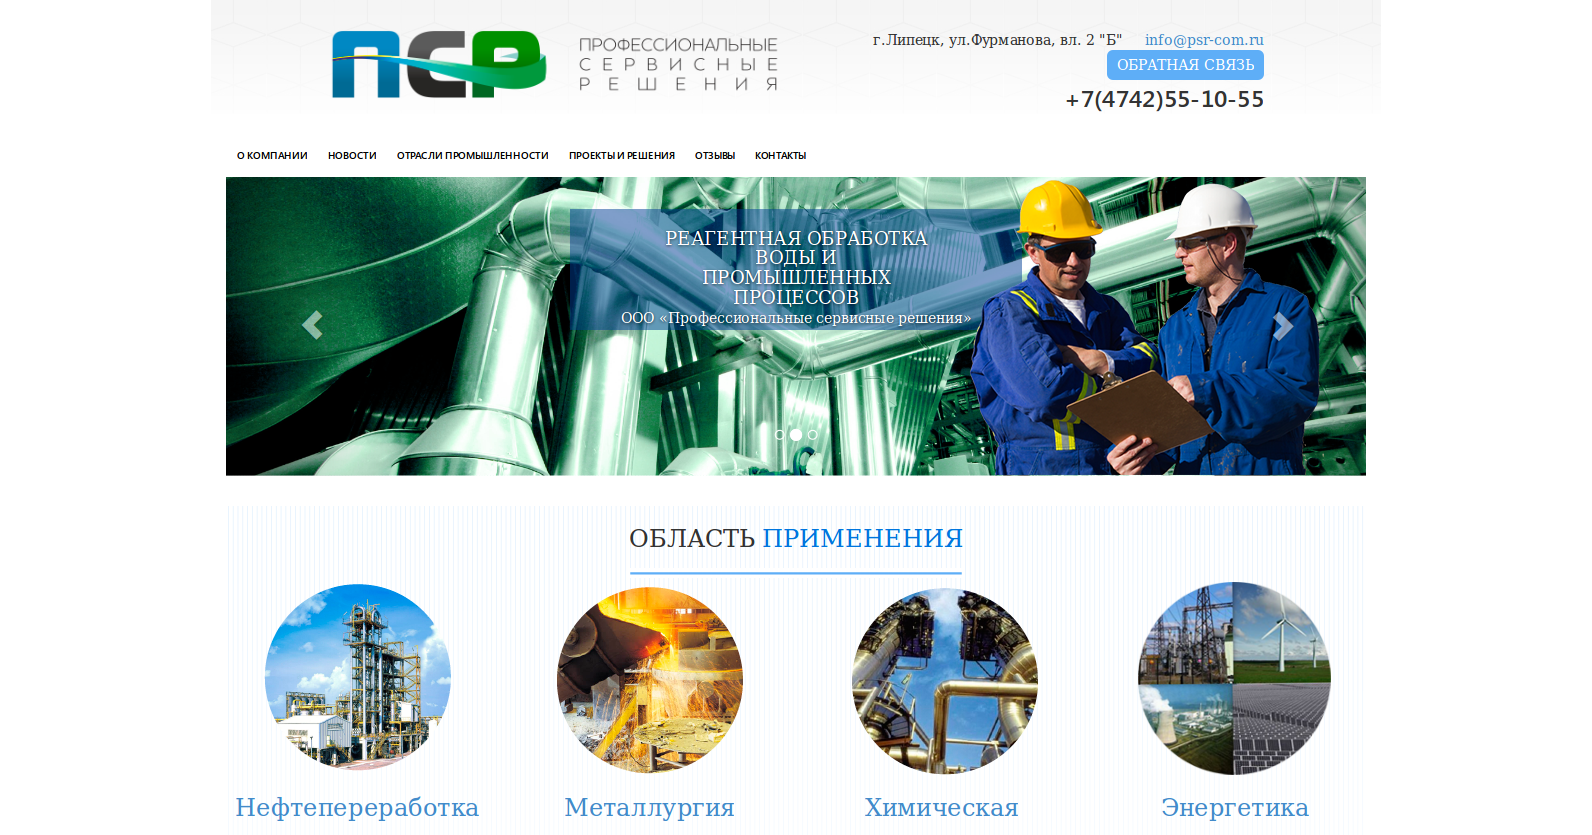
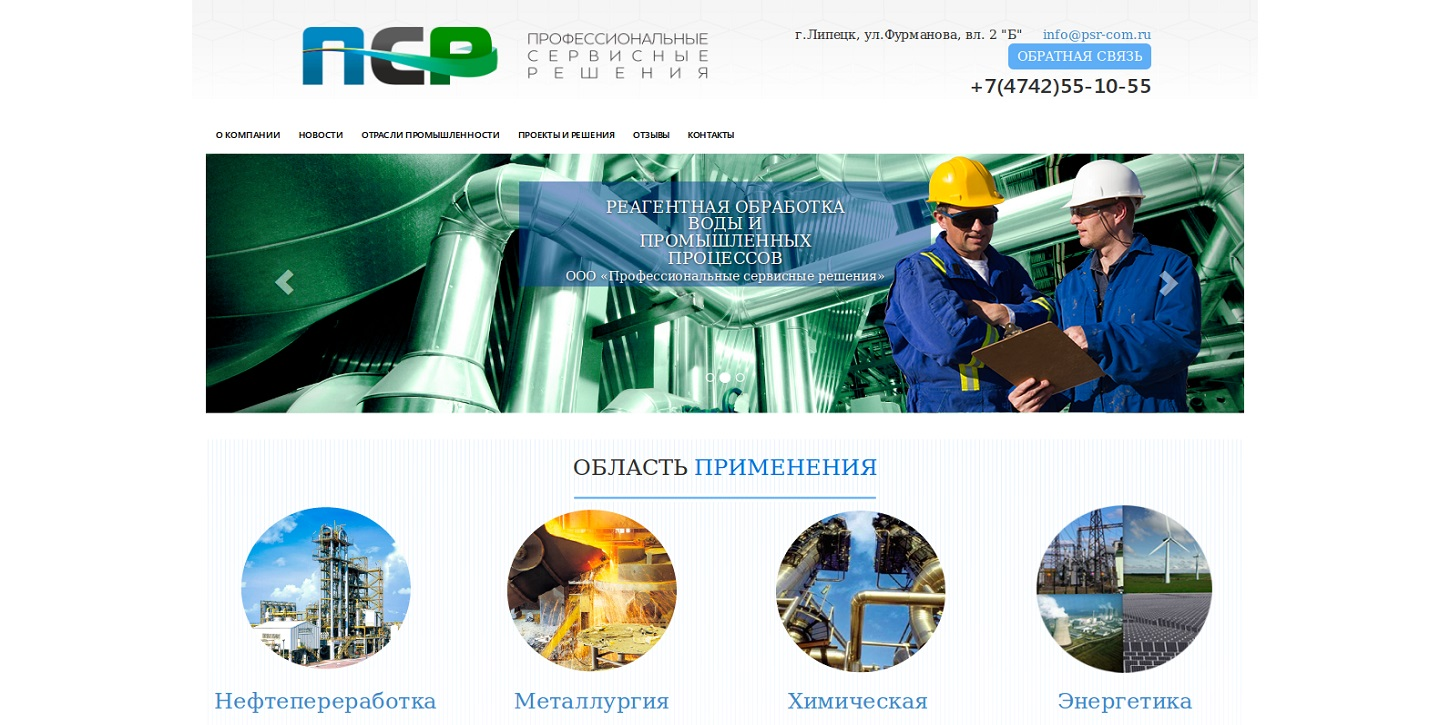
add mail controller and resize image

diff --git a/assets/js/main.js b/assets/js/main.js
@@ -1,10 +1,8 @@
-/*
-	Phantom by HTML5 UP
-	html5up.net | @ajlkn
-	Free for personal and commercial use under the CCA 3.0 license (html5up.net/license)
-*/
-
 (function($) {
+
+	//mail
+
+	$('#hum').attr("name","human");
 
 	skel.breakpoints({
 		xlarge:	'(max-width: 1680px)',

diff --git a/assets/css/custom.css b/assets/css/custom.css
@@ -6,3 +6,8 @@
 }
 #main {
 	background-image: url(../../images/background.jpg);
+	padding: 3em 0 6em 0;
+}
+#header {
+    padding: 3em 0 0.1em 0;
+}

diff --git a/views/view-footer.php b/views/view-footer.php
@@ -4,6 +4,7 @@
 							<section>
 								<h2>Связаться со мной</h2>
 								<form method="post" action="#">
+									<input id="hum" type="hidden" name="">
 									<div class="field half first">
 										<input type="text" name="name" id="name" placeholder="Имя" />
 									</div>
@@ -21,7 +22,7 @@
 							<section>
 								<h2>Я в соц сетях</h2>
 								<ul class="icons">
-									<li><a href="tel:8906683907" class="icon style2 fa-vk"><span class="label">Phone</span></a></li>
+									<li><a href="https://vk.com/id79483722" target="_blank" class="icon style2 fa-vk"><span class="label">VK</span></a></li>
 									<li><a href="mailto:rserg.work@gmail.com" class="icon style2 fa-envelope-o"><span class="label">Email</span></a></li>
 								</ul>
 							</section>

diff --git a/views/view-home.php b/views/view-home.php
@@ -2,11 +2,11 @@
 <div id="main">
 	<div class="inner">
 		<header>
-			<h1>Примеры моих работ по web-разработке</h1>
+			<h1 class="idmain__header">Примеры моих работ по web-разработке</h1>
 		</header>
 		<section class="tiles">
 		<?php foreach($pages as $page): ?>
-			<article class="style<?=rand(1, 6)?>">
+			<article>
 				<span class="image">
 					<img src="images/pages/<?=$page['image']?>" alt="" />
 				</span>

diff --git a/views/view-page.php b/views/view-page.php
@@ -1,7 +1,7 @@
 <!-- Main -->
 					<div id="main">
 						<div class="inner">
-							<h1><?=$page['title']?></h1>
+							<h1 class="idmain__header"><?=$page['title']?></h1>
 
 							<div id="carousel-example-generic" class="carousel slide" data-ride="carousel">
 							  <!-- Indicators -->

diff --git a/functions/mail.php b/functions/mail.php
@@ -1,0 +1,7 @@
+<?php
+
+if(isset($_POST['human'])){
+	foreach ($_POST as $key => $item) {
+		$result[$key] = mysql_escape_string(htmlspecialchars(strip_tags($item)));
+	}
+}

diff --git a/functions/main.php b/functions/main.php
@@ -1,6 +1,7 @@
 <?php
  
 	require_once("db.php");
+	require_once("mail.php");
 	require_once("page-controller.php");
 	require_once("side-page-controller.php");
 ?>
